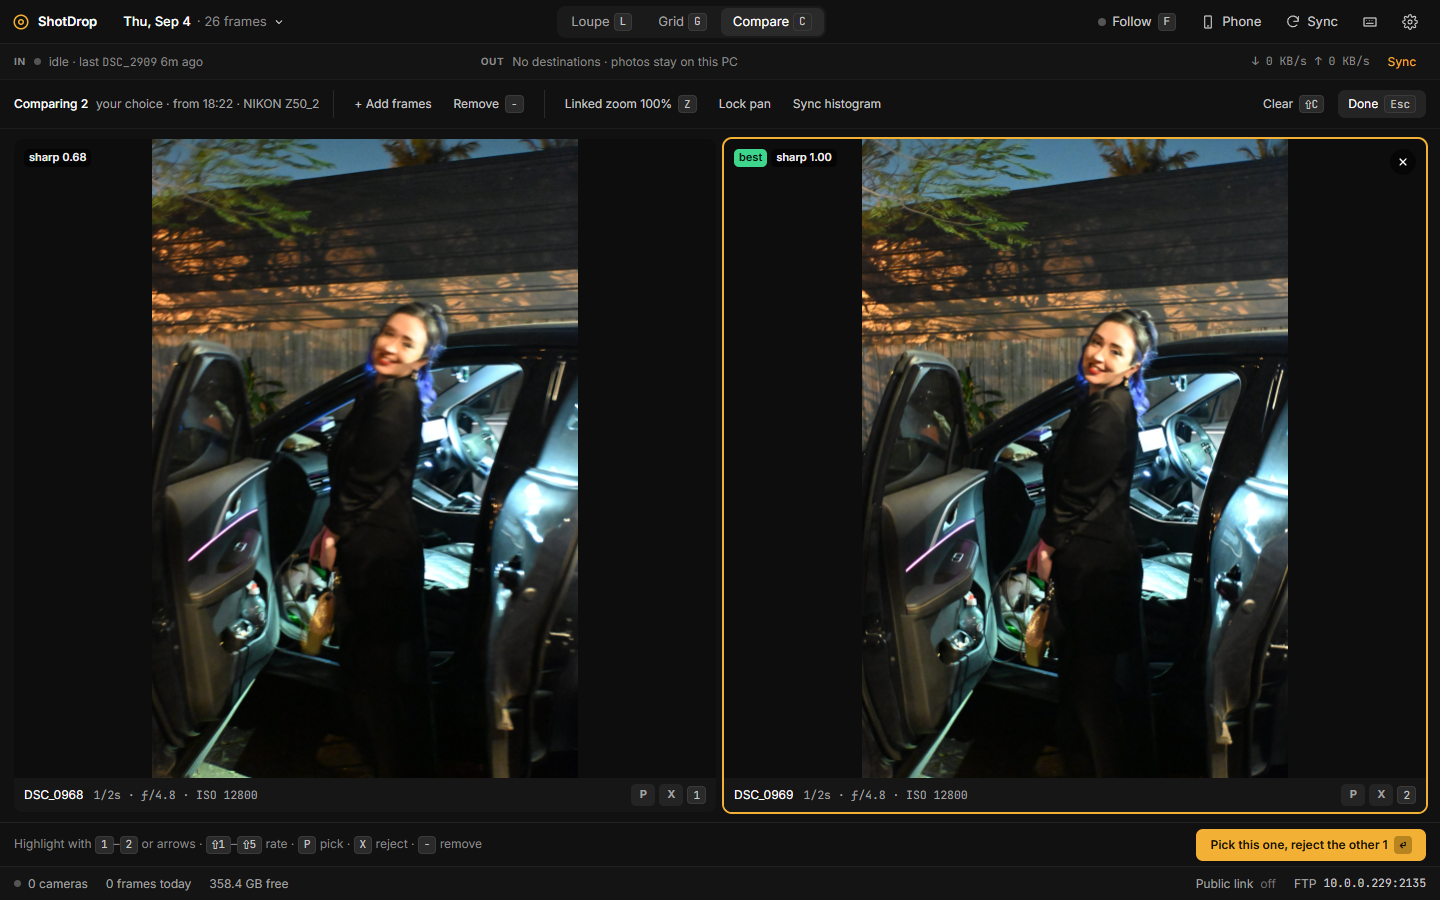
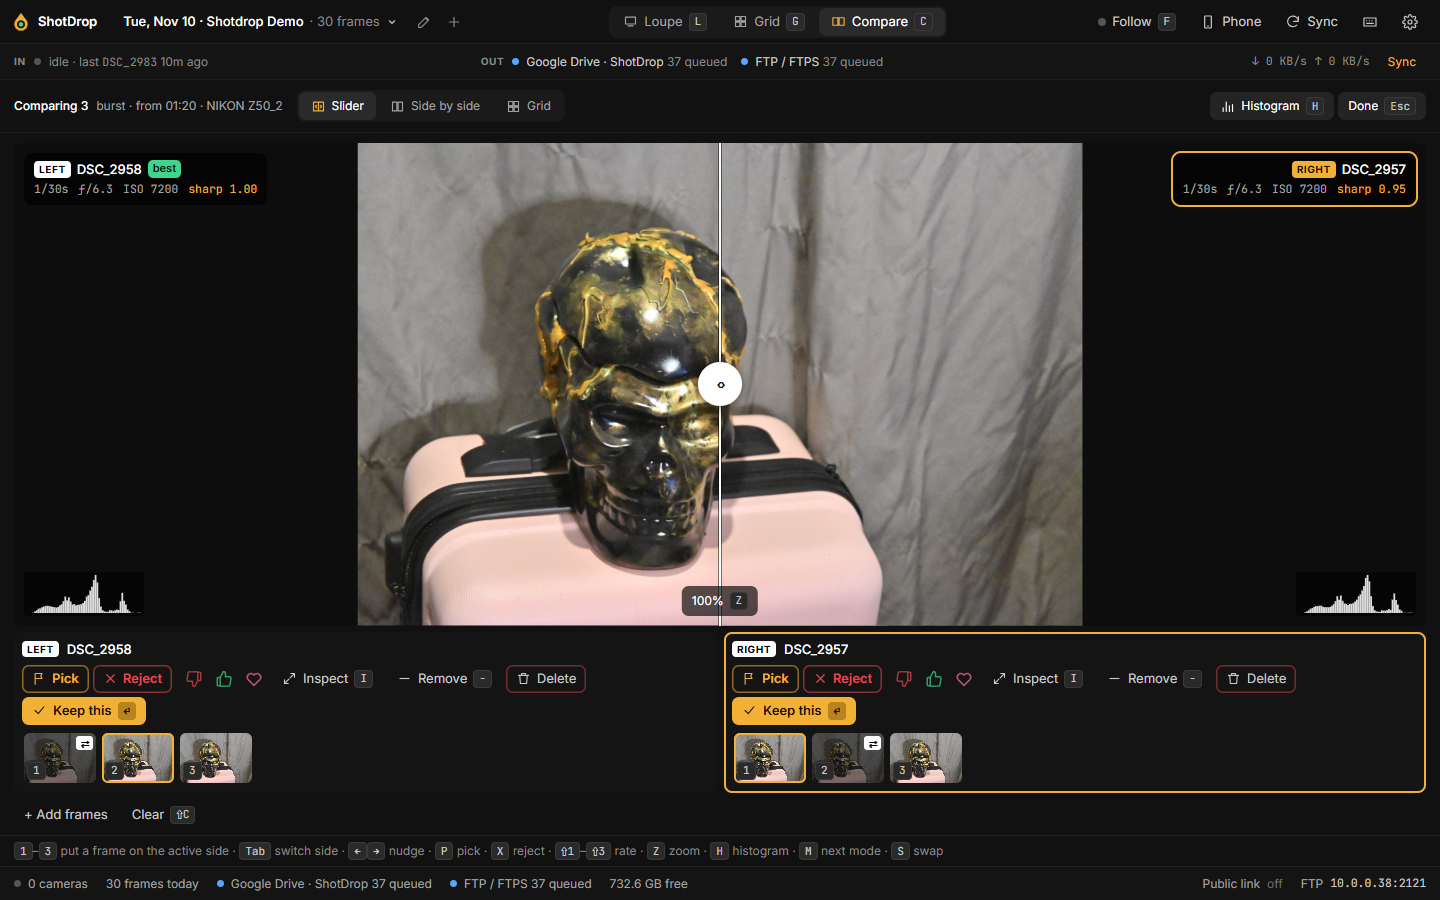
README: new features and gallery stills for Compare, sessions, remotes and browse
- New stills: named sessions, New session sheet, guided Add destination
  (S3, B2, R2, Wasabi, SFTP, FTP, WebDAV) and the destination browser
- Refreshed Compare (slider, histograms) and a populated Sync route board
- Feature tiles, Sessions section, Compare modes, thumbs/heart rating,
  browse/import/copy, uploaded thumbnails, anonymous FTP login, new API routes

diff --git a/README.md b/README.md
@@ -70,6 +70,26 @@ No account, no telemetry. One portable folder. Ratings go to XMP sidecars for Li
 
 </td>
 </tr>
+<tr>
+<td valign="top">
+
+**🔍 Compare**<br>
+Before/after slider, side by side or grid, with per-frame histograms. One key keeps the best of a burst.
+
+</td>
+<td valign="top">
+
+**🗂 Named sessions**<br>
+Name each shoot and its client. New frames go into the current session; renames follow through to your storage.
+
+</td>
+<td valign="top">
+
+**🗄 Browse your storage**<br>
+Explore any destination with thumbnails, import from it or copy between destinations. S3, B2, R2, Wasabi, SFTP, WebDAV.
+
+</td>
+</tr>
 </table>
 
 ## Screenshots
@@ -79,7 +99,11 @@ No account, no telemetry. One portable folder. Ratings go to XMP sidecars for Li
 | ![Loupe](docs/media/01-loupe.png) | ![Grid grouped by minute](docs/media/02-grid-culling.png) |
 | **Loupe** with camera data, histogram and filmstrip | **Grid** grouped by minute, bursts stacked with the best marked, culling panel |
 | ![Compare](docs/media/03-compare.png) | ![Sync route board](docs/media/04-sync.png) |
-| **Compare** a burst side by side and keep the sharpest | **Sync** route board: camera → this PC → destinations |
+| **Compare** a burst with a before/after slider, per-frame histograms and one-key keep | **Sync** route board: camera → this PC → each destination, with live progress |
+| ![Named sessions](docs/media/07-sessions.png) | ![New session](docs/media/08-new-session.png) |
+| **Sessions** in the rail and top bar, with each destination's sync state per session | **New session:** name it, set the client, and new frames land in it |
+| ![Add destination](docs/media/09-add-destination.png) | ![Destination browser](docs/media/10-browse.png) |
+| **Add destination:** Drive, Dropbox, NAS, or guided S3, B2, R2, Wasabi, SFTP, FTP and WebDAV | **Browse a destination** with thumbnails, a folder tree, and import or copy |
 | ![View on phone](docs/media/05-phone-link.png) | <img src="docs/media/06-phone.png" alt="The phone layout" width="300"> |
 | **View on phone:** QR code + PIN, optional public link | **Phone layout** |
 
@@ -112,6 +136,7 @@ No account, no telemetry. One portable folder. Ratings go to XMP sidecars for Li
 - **Built-in FTP server** for camera uploads. Toggle it on, no FileZilla or port setup.
 - **Full-screen camera setup:** big connection card, ftp:// QR code, guides per camera brand, and a live "listening" log that shows the test shot arriving.
 - **Pick the right network address.** Every address on the PC is listed with its adapter and type (Wi-Fi, Ethernet, VPN). Choose the one the camera should use; VPNs such as Tailscale and WireGuard sort last.
+- **Anonymous login** for cameras that can't take a password: leave the login blank and the camera signs in as `anonymous`.
 - **Several cameras at once,** each with its own login, so every frame is tagged by camera or shooter, with per-camera filters.
 - **JPEG, HEIF and RAW** (ARW, CR3, NEF, RAF, DNG and more). RAW+JPEG pairs are grouped as one shot.
 - **Video files** (MP4, MOV, MXF, MTS): thumbnails, plus a browser-playable copy for codecs that won't play directly (HEVC, ProRes, 10-bit).
@@ -133,17 +158,29 @@ No account, no telemetry. One portable folder. Ratings go to XMP sidecars for Li
 - **Loupe, grid and filmstrip,** with **100% zoom and pan** for focus checks.
 - **Grid grouped by minute,** with bursts stacked and the best frame marked.
 - **Histogram and highlight-clipping** overlay (`H`).
-- **Compare up to 4 shots** side by side (`C`, `Shift+C` clears).
+- **Compare** (`C`, `Shift+C` clears) in three modes, cycled with `M`:
+  - **Slider:** a before/after wipe across two frames, with linked 100% zoom.
+  - **Side by side** and **Grid** for a whole burst.
+  - Per-side panels with their own filmstrip (`1`–`9` puts a frame on the active side, `Tab` switches, `S` swaps), per-frame **histograms** (`H`), sharpness scores, and **Inspect** (`I`) for a larger look.
+  - **Keep this** (`Enter`) picks that frame and rejects the rest of the burst.
 - **EXIF at a glance:** shutter, aperture, ISO, focal length, lens, camera, time.
-- **Sessions and filters:** shoot days grouped as sessions, plus filters by camera, pick, rating and reject.
+- **Filters** by session, camera, pick, rating and reject.
 - **Status dock** showing cameras connected, frames received, sync progress and disk space.
 
 ### ⭐ Culling
-- **Keyboard-first:** `1`–`5` stars, `P` pick, `X` reject, `U` clear, `6`–`9` colour labels. Add `Shift` to rate and move to the next shot.
+- **Keyboard-first:** `1` thumbs down, `2` thumbs up, `3` love (or `1`–`5` stars if you prefer, in Settings), `P` pick, `X` reject, `U` clear, `6`–`9` colour labels. Add `Shift` to rate and move to the next shot. Both systems write the same rating, so Lightroom sees it either way.
 - **Automatic burst grouping:** bursts and near-duplicates are stacked and the best frame is marked. **Compare** puts a burst side by side; one key keeps the best and rejects the rest.
 - **Flags:** **similar**, **soft/blurred**, **eyes closed** and **bad exposure** (blown highlights or crushed shadows). One-click filter chips: *All*, *Picks*, *★4+*, *Unrated*, *Rejects*, *Similar*, *Blur*, *Eyes*, *Exposure*. The culling panel adjusts each detector's threshold. Flags only mark frames; nothing is deleted.
 - **XMP sidecars:** ratings, picks/rejects and labels are written to `<name>.xmp` next to each photo, so Lightroom and Capture One see your culling. Sidecars sync with the photos and are read back on import.
+- **Delete N rejects** in the grid clears every reject in the current view in one go, after a confirmation.
 - **Delete really deletes:** the recycle bin first, then a permanent delete if needed. If a file is locked by another program, you get a warning naming it, and the photo stays in the gallery so nothing is left orphaned on disk.
+
+### 🗂 Sessions
+- **Named sessions** instead of plain shoot days. **New session** (top bar or rail) takes a name, an optional client and a date; quick-new names it "Session N" for you.
+- **A current session:** new frames from every camera go into it whatever their date, and it can end on its own after a set number of hours.
+- **Rename** inline from the top bar or rail, and **Move to session** for shots that landed in the wrong one. Renames and moves are carried through to your destinations.
+- Each session shows **every destination's sync state** under it in the rail, and **Found on destinations** lists sessions that exist in your storage but not on this PC.
+- Session details travel with the photos in a small `.shotdrop.json`, so ShotDrop on another PC that reads the same destination sees the same names.
 
 ### 🎞 RAW and metadata
 - **Previews from the largest JPEG embedded in the RAW,** with its true size shown.
@@ -164,7 +201,11 @@ No account, no telemetry. One portable folder. Ratings go to XMP sidecars for Li
 ### ☁ Sync and backup
 - **Route board** (Settings → Sync) shows where photos travel: camera → this PC → each destination, with live progress and health on every card: Up to date, Syncing, Paused, Can't reach, Failed or Sign-in expired.
 - **One-click Google Drive and Dropbox.** Sign in in your browser, then pick or create the folder. By default Drive access is limited to folders ShotDrop creates. Accounts are kept in ShotDrop's own config, and your own app credentials are supported.
-- **Folder / NAS** destinations (local drives or network shares), plus **any rclone remote** (S3, B2, SFTP, OneDrive…) for advanced setups.
+- **Folder / NAS** destinations (local drives or network shares).
+- **Guided setup for more services** under **Add destination → More…**: Amazon S3, Backblaze B2, Cloudflare R2, Wasabi and other S3-compatible storage (MinIO, Storj, IDrive) with an access key, or your own **SFTP**, **FTP/FTPS** or **WebDAV** server (Nextcloud, ownCloud) with a host and login. Any other rclone remote can still be typed in as `remote:path`.
+- **Browse any destination** like a file explorer: path bar, folder tree, thumbnails, multi-select and right-click menus. Each file shows whether it's also on this PC. **Import** photos from a destination into the library, **Copy to** another destination, or delete from the destination.
+- **Uploaded thumbnails:** ShotDrop can put small previews in a hidden folder on each destination, so browsing is fast from any device.
+- **Delete follows you if you want:** per destination, keep the copy as a backup or delete it there too when you delete in ShotDrop.
 - **Choose what each destination gets:** everything, JPEGs only, RAW only, or **picks only**, which are sent the moment you press `P`. The sheet shows how many files and how much data that is right now.
 - **A background queue that survives anything:** offline periods, unplugged drives and restarts. It retries, then catches up. Pause and resume per destination, errors in plain English, and **Reconnect** when a sign-in expires.
 
@@ -174,7 +215,7 @@ No account, no telemetry. One portable folder. Ratings go to XMP sidecars for Li
 - **REST API with live events** for scripting and integrations. The app's own UI uses the same API (see [REST API](#rest-api)).
 
 ### 🚧 Not yet
-FTPS for cameras, drag-and-drop import, rename/folder rules, batch delete of rejects, rsync/SSH destinations, bandwidth limits, tray icon and notifications, auto-update, macOS/Linux builds, a named Cloudflare tunnel with a fixed URL, uploads from cameras outside your network, and client proofing galleries.
+FTPS for cameras, drag-and-drop import, rename/folder rules, rsync destinations, bandwidth limits, tray icon and notifications, auto-update, macOS/Linux builds, a named Cloudflare tunnel with a fixed URL, uploads from cameras outside your network, and client proofing galleries.
 
 ## Quick start
 
@@ -244,7 +285,8 @@ Entry-level bodies usually only support the maker's phone app, which ShotDrop ca
 ## Settings
 
 - **Camera:** FTP on/off, network address, port, logins (one per camera or shooter), **Connection check**, watched folders, and the library folder (default `Pictures\ShotDrop`).
-- **Sync:** destinations (Google Drive, Dropbox, folder/NAS, any rclone remote), what each one receives, pause/resume and reconnect.
+- **Sync:** destinations (Google Drive, Dropbox, folder/NAS, S3-compatible storage, SFTP, FTP, WebDAV, any rclone remote), what each one receives, what happens there when you delete, uploaded thumbnails, browse, pause/resume and reconnect.
+- **Rating:** thumbs and heart (default) or 5 stars.
 - **Phone and remote:** remote access, the PIN, the **View on phone** QR code and the optional public link.
 - **Culling:** burst grouping and the thresholds for similar, soft, eyes-closed and exposure flags.
 - Changes to FTP, library, watch folders and remote access apply live, with no restart.
@@ -332,7 +374,9 @@ The desktop window uses the same HTTP API a phone or script would. It listens on
 |---|---|---|
 | GET | `/api/status` | FTP, cameras, API, library, sync, tunnel and per-destination state |
 | GET | `/api/events` · `/api/changes?after=<seq>` | Live events (SSE), or the polling equivalent used through tunnels |
-| GET | `/api/sessions` · `/api/library/counts` | Shoot days; file counts and sizes per sync filter |
+| GET | `/api/sessions` · `/api/library/counts` | Sessions; file counts and sizes per sync filter |
+| PATCH | `/api/sessions/:folder` | Rename a session (carried through to destinations) |
+| GET | `/api/ingest/current-session` · `/api/remote/sessions` | The session new frames go into; sessions found on destinations |
 | GET | `/api/shots` | `?session=&source=&minRating=&flag=-1\|0\|1\|notRejected&label=&order=&limit=&offset=` |
 | GET / PATCH | `/api/shots/:id` | One shot; `{ rating?, flag?, label? }`. `PATCH /api/shots` does bulk updates |
 | DELETE | `/api/shots/:id` | Deletes from disk; `409` with the files that couldn't be removed |
@@ -341,6 +385,9 @@ The desktop window uses the same HTTP API a phone or script would. It listens on
 | GET | `/api/shots/:id/link` (local) | Share link to one preview |
 | GET / PATCH | `/api/settings` (local) | Changes apply live (FTP, library, watch folders, remote) |
 | GET / POST / PATCH / DELETE | `/api/destinations[/:id]` (local) | `{ name, type: folder\|rclone, target, filter: all\|jpeg\|raw\|picks, enabled }`; `POST …/resync` |
+| GET | `/api/destinations/:id/browse` · `/thumb` · `/file` · `/info` | Browse a destination's folders and files (`info` is local) |
+| POST | `/api/destinations/:id/import` · `/copy` · `/send` · `/adopt` · `/delete` | Import into the library, copy between destinations, delete there (`delete` is local) |
+| GET / DELETE | `/api/transfers[/:id]` · `/api/remote-ops` | Import/copy jobs and pending remote renames and moves |
 | GET / POST | `/api/sync/jobs` · `/api/sync/retry` (local) | Queue inspection, retry failed |
 | * | `/api/cloud/…` (local) | Link/cancel/disconnect accounts, browse/create folders, account info |
 | * | `/api/tunnel[/install\|start\|stop]` | Public link state and control (control is local) |
@@ -363,7 +410,7 @@ More detail:
 
 ## Roadmap
 
-- **Next:** FTPS for cameras, rename/folder rules, batch actions on rejects, tray icon and notifications, auto-update.
+- **Next:** FTPS for cameras, rename/folder rules, tray icon and notifications, auto-update.
 - **Remote ingest:** a phone-hotspot field kit today; port-forwarded FTPS or a relay later.
 - **Android:** the phone as the server (camera → phone hotspot → ShotDrop on Android), reusing the same React UI.
 - **Client proofing:** guest galleries with picks and comments, built on photos already in the photographer's own cloud.
